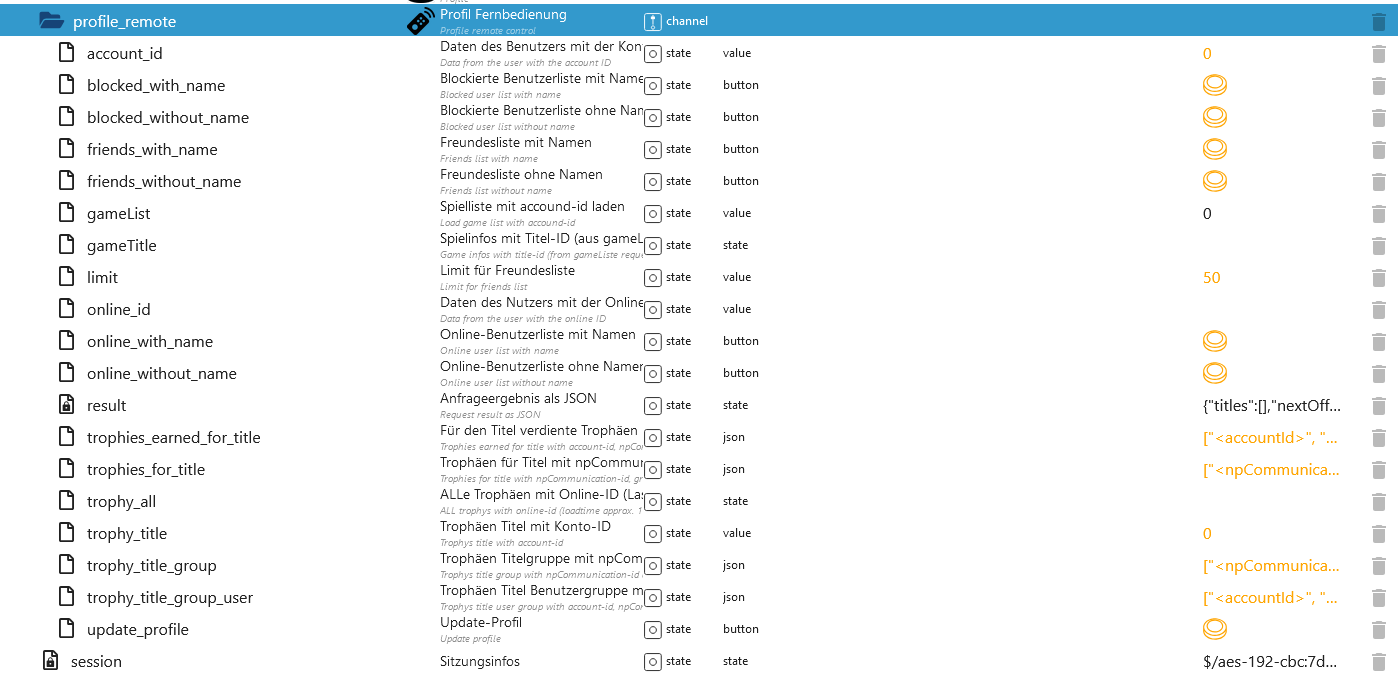
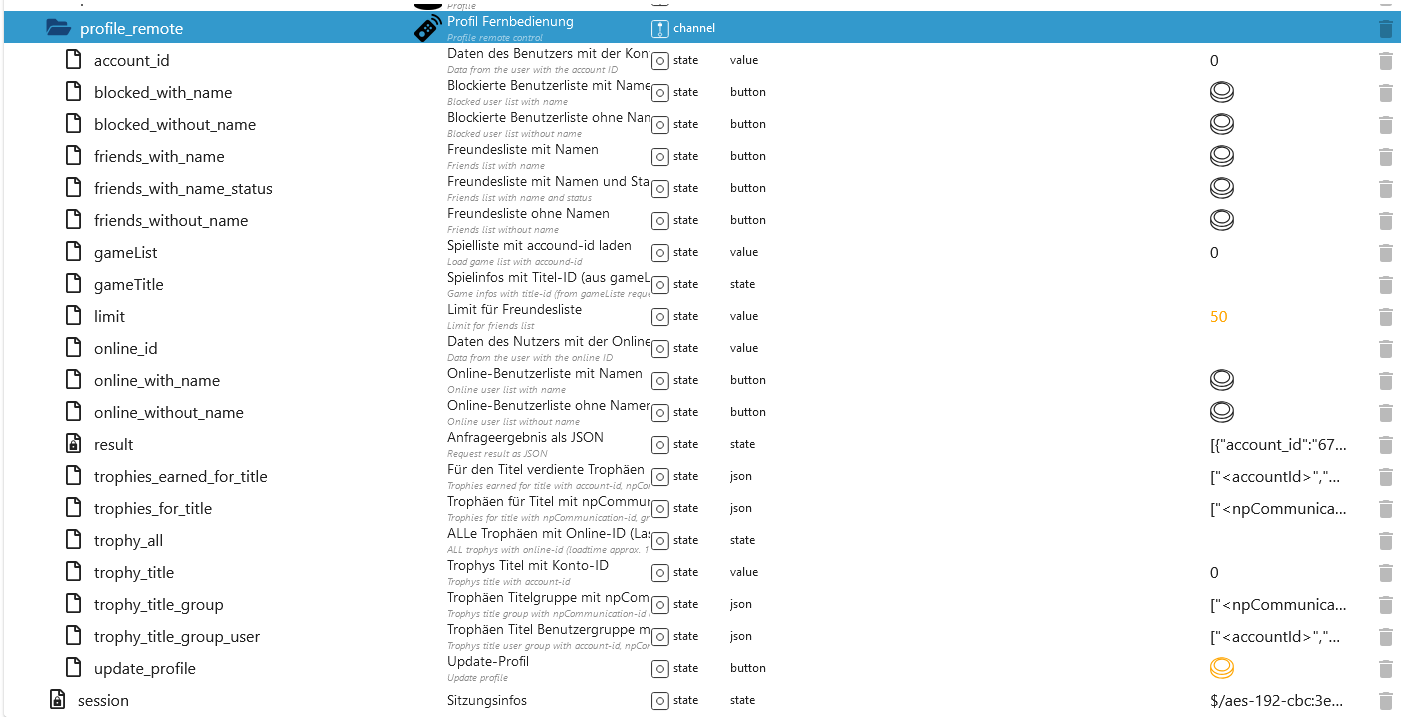
add friend status button

diff --git a/lib/requests.js b/lib/requests.js
@@ -441,7 +441,7 @@ module.exports = {
             await this.setState(`profile_remote.result`, { val: JSON.stringify(games), ack: true });
         }
     },
-    async loadRequest(req, name, constants) {
+    async loadRequest(req, name, constants, status) {
         if (!this.accountId) {
             this.log.warn(`Missing accoundId!!`);
             return;
@@ -462,9 +462,11 @@ module.exports = {
                 Authorization: `Bearer ${this.session.access.access_token}`,
             },
         };
+        let status_user = false;
         let response = [];
         if (req === "friend") {
             url = `${constants.BASE_PATH.profile_uri}${constants.API_PATH.friends_list.replace("{account_id}", this.accountId)}`;
+            status_user = status;
         } else if (req === "block") {
             params = undefined;
             url = `${constants.BASE_PATH.profile_uri}${constants.API_PATH.blocked_users}`;
@@ -495,7 +497,7 @@ module.exports = {
             if (Object.keys(response).length) {
                 const arr = [];
                 for (const id of response) {
-                    const url = `${constants.BASE_PATH.profile_uri}${constants.API_PATH.profiles.replace("{account_id}", id)}`;
+                    url = `${constants.BASE_PATH.profile_uri}${constants.API_PATH.profiles.replace("{account_id}", id)}`;
                     const user = await this.requestPSN(methode, url, header, undefined, true);
                     if (user && user.data && user.data.onlineId) {
                         arr.push({ account_id: id, online_id: user.data.onlineId });
@@ -504,6 +506,47 @@ module.exports = {
                     }
                 }
                 response = arr;
+            }
+        }
+        if (status_user) {
+            if (Object.keys(response).length) {
+                params = {
+                    params: {
+                        fields:
+                            "npId,onlineId,accountId,avatarUrls,plus,aboutMe,languagesUsed,trophySummary(@default,level,progress,earnedTrophies)," +
+                            "isOfficiallyVerified,personalDetail(@default,profilePictureUrls),personalDetailSharing,personalDetailSharingRequestMessageFlag," +
+                            "primaryOnlineStatus,presences(@default,@titleInfo,platform,lastOnlineDate,hasBroadcastData),requestMessageFlag,blocking,friendRelation," +
+                            "following,consoleAvailability",
+                    },
+                };
+                for (const id of response) {
+                    const onlineId = id.online_id.toString();
+                    url = `${constants.BASE_PATH.legacy_profile_uri}${constants.API_PATH.legacy_profile.replace("{online_id}", onlineId)}`;
+                    const user = await this.requestPSN(methode, url, header, params, true);
+                    this.log.error(JSON.stringify(user.data));
+                    if (user && user.data && user.data.profile) {
+                        const profile = user.data.profile;
+                        if (profile.primaryOnlineStatus) {
+                            id["primaryOnlineStatus"] = profile.primaryOnlineStatus;
+                        }
+                        if (profile.presences && profile.presences[0]) {
+                            id["onlineStatus"] = profile.presences[0].onlineStatus;
+                            id["lastOnlineDate"] = profile.presences[0].lastOnlineDate
+                                ? profile.presences[0].lastOnlineDate
+                                : new Date();
+                            id["gameTitle"] = profile.presences[0].titleName ? profile.presences[0].titleName : "";
+                        }
+                        if (profile.consoleAvailability) {
+                            id["availabilityStatus"] = profile.consoleAvailability.availabilityStatus;
+                        }
+                        if (profile.avatarUrls && profile.avatarUrls[0]) {
+                            id["avatarUrl"] = profile.avatarUrls[0].avatarUrl;
+                        }
+                        if (profile.friendRelation) {
+                            id["friendRelation"] = profile.friendRelation;
+                        }
+                    }
+                }
             }
         }
         await this.setState(`profile_remote.result`, { val: JSON.stringify(response), ack: true });

diff --git a/main.js b/main.js
@@ -571,27 +571,31 @@ class Playstation extends utils.Adapter {
                         this.setAckFlag(id, { val: false });
                         break;
                     case "online_with_name":
-                        this.loadRequest("online", true, constants);
+                        this.loadRequest("online", true, constants, false);
                         this.setAckFlag(id, { val: false });
                         break;
                     case "online_without_name":
-                        this.loadRequest("online", false, constants);
+                        this.loadRequest("online", false, constants, false);
                         this.setAckFlag(id, { val: false });
                         break;
                     case "blocked_with_name":
-                        this.loadRequest("block", true, constants);
+                        this.loadRequest("block", true, constants, false);
                         this.setAckFlag(id, { val: false });
                         break;
                     case "blocked_without_name":
-                        this.loadRequest("block", false, constants);
+                        this.loadRequest("block", false, constants, false);
                         this.setAckFlag(id, { val: false });
                         break;
                     case "friends_with_name":
-                        this.loadRequest("friend", true, constants);
+                        this.loadRequest("friend", true, constants, false);
                         this.setAckFlag(id, { val: false });
                         break;
                     case "friends_without_name":
-                        this.loadRequest("friend", false, constants);
+                        this.loadRequest("friend", false, constants, false);
+                        this.setAckFlag(id, { val: false });
+                        break;
+                    case "friends_with_name_status":
+                        this.loadRequest("friend", true, constants, true);
                         this.setAckFlag(id, { val: false });
                         break;
                     case "limit":

diff --git a/lib/helper.js b/lib/helper.js
@@ -372,6 +372,28 @@ module.exports = {
             type: "boolean",
             role: "button",
             name: {
+                en: "Friends list with name and status",
+                de: "Freundesliste mit Namen und Status",
+                ru: "Список друзей с именем и статусом",
+                pt: "Lista de amigos com nome e status",
+                nl: "Vriendenlijst met naam en status",
+                fr: "Liste des amis avec nom et statut",
+                it: "Elenco amici con nome e stato",
+                es: "Lista de amigos con nombre y estado",
+                pl: "Lista znajomych z nazwą i statusem",
+                uk: "Список друзів з ім'ям та статусом",
+                "zh-cn": "有姓名和身份的朋友名单",
+            },
+            desc: "Friends list with name and status",
+            read: true,
+            write: true,
+            def: false,
+        };
+        await this.createDataPoint(`profile_remote.friends_with_name_status`, common, "state", null, null);
+        common = {
+            type: "boolean",
+            role: "button",
+            name: {
                 en: "Blocked user list without name",
                 de: "Blockierte Benutzerliste ohne Namen",
                 ru: "Заблокированный список пользователей без имени",

diff --git a/docs/en/README.md b/docs/en/README.md
@@ -13,7 +13,7 @@
     - [Step 1 > Login PSN](#login-psn-playsatation-network)
     - [Step 2 > Login Local](#login-playstation-device)
 - [Objects](#objects)
-    - [Overview Objekte](#overview-all-objects)
+    - [Overview Objects](#overview-all-objects)
     - [Profile](#overview-objects-profile)
     - [Device](#overview-objects-device)
     - [Remote Local](#objects-remote)
@@ -131,6 +131,7 @@ Online-ID: Nickname
 - `playstation.0.profile_remote.blocked_with_name` Blocked users with name as array JSON (account-id and online-id) // Result unknown
 - `playstation.0.profile_remote.blocked_without_name` Blocked users as array (account-id) // Result unknown
 - `playstation.0.profile_remote.friends_with_name` List of friends as array JSON (account-id and online-id) [Beispiel](#request-playstation0profile_remotefriends_with_name)
+- `playstation.0.profile_remote.friends_with_name_status` List of friends with status infos as array JSON (account-id and online-id) [Beispiel](#request-playstation0profile_remotefriends_with_name_status)
 - `playstation.0.profile_remote.friends_without_name` List of friends as array (account-id) [Beispiel](#request-playstation0profile_remotefriends_without_name)
 - `playstation.0.profile_remote.gameList` Game list of a user with the account-ID as JSON [Beispiel](#request-playstation0profile_remotegamelist)
 - `playstation.0.profile_remote.gameTitle` Game info with the title-ID as JSON [Beispiel](#request-playstation0profile_remotegametitle)
@@ -174,7 +175,7 @@ Online-ID: Nickname
 ### Request with AccountID `playstation.0.profile_remote.account_id`
 
 [Summary](#summary)</br>
-[Remote PSN](#objekte-profile_remote)
+[Remote PSN](#objects-profile_remote)
 
 ```json
 {
@@ -212,7 +213,7 @@ Online-ID: Nickname
 ### Request with Online-ID `playstation.0.profile_remote.online_id`
 
 [Summary](#summary)</br>
-[Remote PSN](#objekte-profile_remote)
+[Remote PSN](#objects-profile_remote)
 
 ```json
 {
@@ -268,7 +269,7 @@ Online-ID: Nickname
 ### Request `playstation.0.profile_remote.trophy_title`
 
 [Summary](#summary)</br>
-[Remote PSN](#objekte-profile_remote)
+[Remote PSN](#objects-profile_remote)
 
 ```json
 {
@@ -308,7 +309,7 @@ Online-ID: Nickname
 ### Request `playstation.0.profile_remote.friends_without_name`
 
 [Summary](#summary)</br>
-[Remote PSN](#objekte-profile_remote)
+[Remote PSN](#objects-profile_remote)
 
 ```json
 ["xxxx4105713269xxxx"]
@@ -317,7 +318,7 @@ Online-ID: Nickname
 ### Request `playstation.0.profile_remote.friends_with_name`
 
 [Summary](#summary)</br>
-[Remote PSN](#objekte-profile_remote)
+[Remote PSN](#objects-profile_remote)
 
 ```json
 [
@@ -328,10 +329,42 @@ Online-ID: Nickname
 ]
 ```
 
+### Request `playstation.0.profile_remote.friends_with_name_status`
+
+[Summary](#summary)</br>
+[Remote PSN](#objects-profile_remote)
+
+```json
+[
+    {
+        "account_id": "000000000000000000",
+        "online_id": "USERNAME",
+        "primaryOnlineStatus": "offline",
+        "onlineStatus": "offline",
+        "lastOnlineDate": "2023-05-13T13:03:26Z",
+        "gameTitle": "",
+        "availabilityStatus": "offline",
+        "avatarUrl": "http://psn-rsc.prod.dl.playstation.net/psn-rsc/avatar/EP9000/CUSA00000_00-AV00000xxxx.png",
+        "friendRelation": "friend"
+    },
+    {
+        "account_id": "000000000000000000",
+        "online_id": "USERNAME",
+        "primaryOnlineStatus": "online",
+        "onlineStatus": "online",
+        "lastOnlineDate": "2025-01-20T16:44:16.215Z",
+        "gameTitle": "Grand Theft Auto V",
+        "availabilityStatus": "online",
+        "avatarUrl": "http://psn-rsc.prod.dl.playstation.net/psn-rsc/avatar/EP9000/CUSA00000_00-AV00000xxxx.png",
+        "friendRelation": "friend"
+    }
+]
+```
+
 ### Request `playstation.0.profile_remote.trophy_title_group_user`
 
 [Summary](#summary)</br>
-[Remote PSN](#objekte-profile_remote)
+[Remote PSN](#objects-profile_remote)
 
 Well-known platform: PS5, PS4, PS3, PSVita
 
@@ -372,7 +405,7 @@ Well-known platform: PS5, PS4, PS3, PSVita
 ### Request `playstation.0.profile_remote.trophy_title_group`
 
 [Summary](#summary)</br>
-[Remote PSN](#objekte-profile_remote)
+[Remote PSN](#objects-profile_remote)
 
 Well-known platform: PS5, PS4, PS3, PSVita
 
@@ -417,7 +450,7 @@ Well-known platform: PS5, PS4, PS3, PSVita
 ### Request `playstation.0.profile_remote.trophy_all`
 
 [Summary](#summary)</br>
-[Remote PSN](#objekte-profile_remote)
+[Remote PSN](#objects-profile_remote)
 
 ```json
 [
@@ -562,7 +595,7 @@ Well-known platform: PS5, PS4, PS3, PSVita
 ### Request `playstation.0.profile_remote.trophies_for_title`
 
 [Summary](#summary)</br>
-[Remote PSN](#objekte-profile_remote)
+[Remote PSN](#objects-profile_remote)
 
 Well-known groupid: VeryRare, UltraRare, Rare, Common, all</br>
 Well-known platform: PS5, PS4, PS3, PSVita
@@ -595,7 +628,7 @@ Well-known platform: PS5, PS4, PS3, PSVita
 ### Request `playstation.0.profile_remote.trophies_earned_for_title`
 
 [Summary](#summary)</br>
-[Remote PSN](#objekte-profile_remote)
+[Remote PSN](#objects-profile_remote)
 
 Well-known groupid: VeryRare, UltraRare, Rare, Common, all</br>
 Well-known platform: PS5, PS4, PS3, PSVita
@@ -628,7 +661,7 @@ Well-known platform: PS5, PS4, PS3, PSVita
 ### Request `playstation.0.profile_remote.gameList`
 
 [Summary](#summary)</br>
-[Remote PSN](#objekte-profile_remote)
+[Remote PSN](#objects-profile_remote)
 
 ```json
 {
@@ -850,7 +883,7 @@ Well-known platform: PS5, PS4, PS3, PSVita
 ### Request `playstation.0.profile_remote.gameTitle`
 
 [Summary](#summary)</br>
-[Remote PSN](#objekte-profile_remote)
+[Remote PSN](#objects-profile_remote)
 
 ```json
 [

diff --git a/docs/de/README.md b/docs/de/README.md
@@ -131,6 +131,7 @@ Online-ID: Nickname
 - `playstation.0.profile_remote.blocked_with_name` Geblockte Benutzer mit Name als Array-JSON (account id und online id) // Result unknown
 - `playstation.0.profile_remote.blocked_without_name` Geblockte Benutzer als Array (account id) // Result unknown
 - `playstation.0.profile_remote.friends_with_name` Liste der Freunde als Array-JSON (account id und online id) [Beispiel](#request-playstation0profile_remotefriends_with_name)
+- `playstation.0.profile_remote.friends_with_name_status` Liste der Freunde mit Status als Array-JSON (account id und online id) [Beispiel](#request-playstation0profile_remotefriends_with_name_status)
 - `playstation.0.profile_remote.friends_without_name` Liste der Freunde als Array (account id) [Beispiel](#request-playstation0profile_remotefriends_without_name)
 - `playstation.0.profile_remote.gameList` Spieleliste eines Benutzer mit der Account-ID als JSON [Beispiel](#request-playstation0profile_remotegamelist)
 - `playstation.0.profile_remote.gameTitle` Spielinfos mit der Titel-ID als JSON [Beispiel](#request-playstation0profile_remotegametitle)
@@ -324,6 +325,38 @@ Online-ID: Nickname
     {
         "account_id": "xxxx4105713269xxxx",
         "online_id": "-xX_NICKNAME_Xx-"
+    }
+]
+```
+
+### Request `playstation.0.profile_remote.friends_with_name_status`
+
+[Zusammenfassung](#zusammenfassung)</br>
+[Remote PSN](#objekte-profile_remote)
+
+```json
+[
+    {
+        "account_id": "000000000000000000",
+        "online_id": "USERNAME",
+        "primaryOnlineStatus": "offline",
+        "onlineStatus": "offline",
+        "lastOnlineDate": "2023-05-13T13:03:26Z",
+        "gameTitle": "",
+        "availabilityStatus": "offline",
+        "avatarUrl": "http://psn-rsc.prod.dl.playstation.net/psn-rsc/avatar/EP9000/CUSA00000_00-AV00000xxxx.png",
+        "friendRelation": "friend"
+    },
+    {
+        "account_id": "000000000000000000",
+        "online_id": "USERNAME",
+        "primaryOnlineStatus": "online",
+        "onlineStatus": "online",
+        "lastOnlineDate": "2025-01-20T16:44:16.215Z",
+        "gameTitle": "Grand Theft Auto V",
+        "availabilityStatus": "online",
+        "avatarUrl": "http://psn-rsc.prod.dl.playstation.net/psn-rsc/avatar/EP9000/CUSA00000_00-AV00000xxxx.png",
+        "friendRelation": "friend"
     }
 ]
 ```
